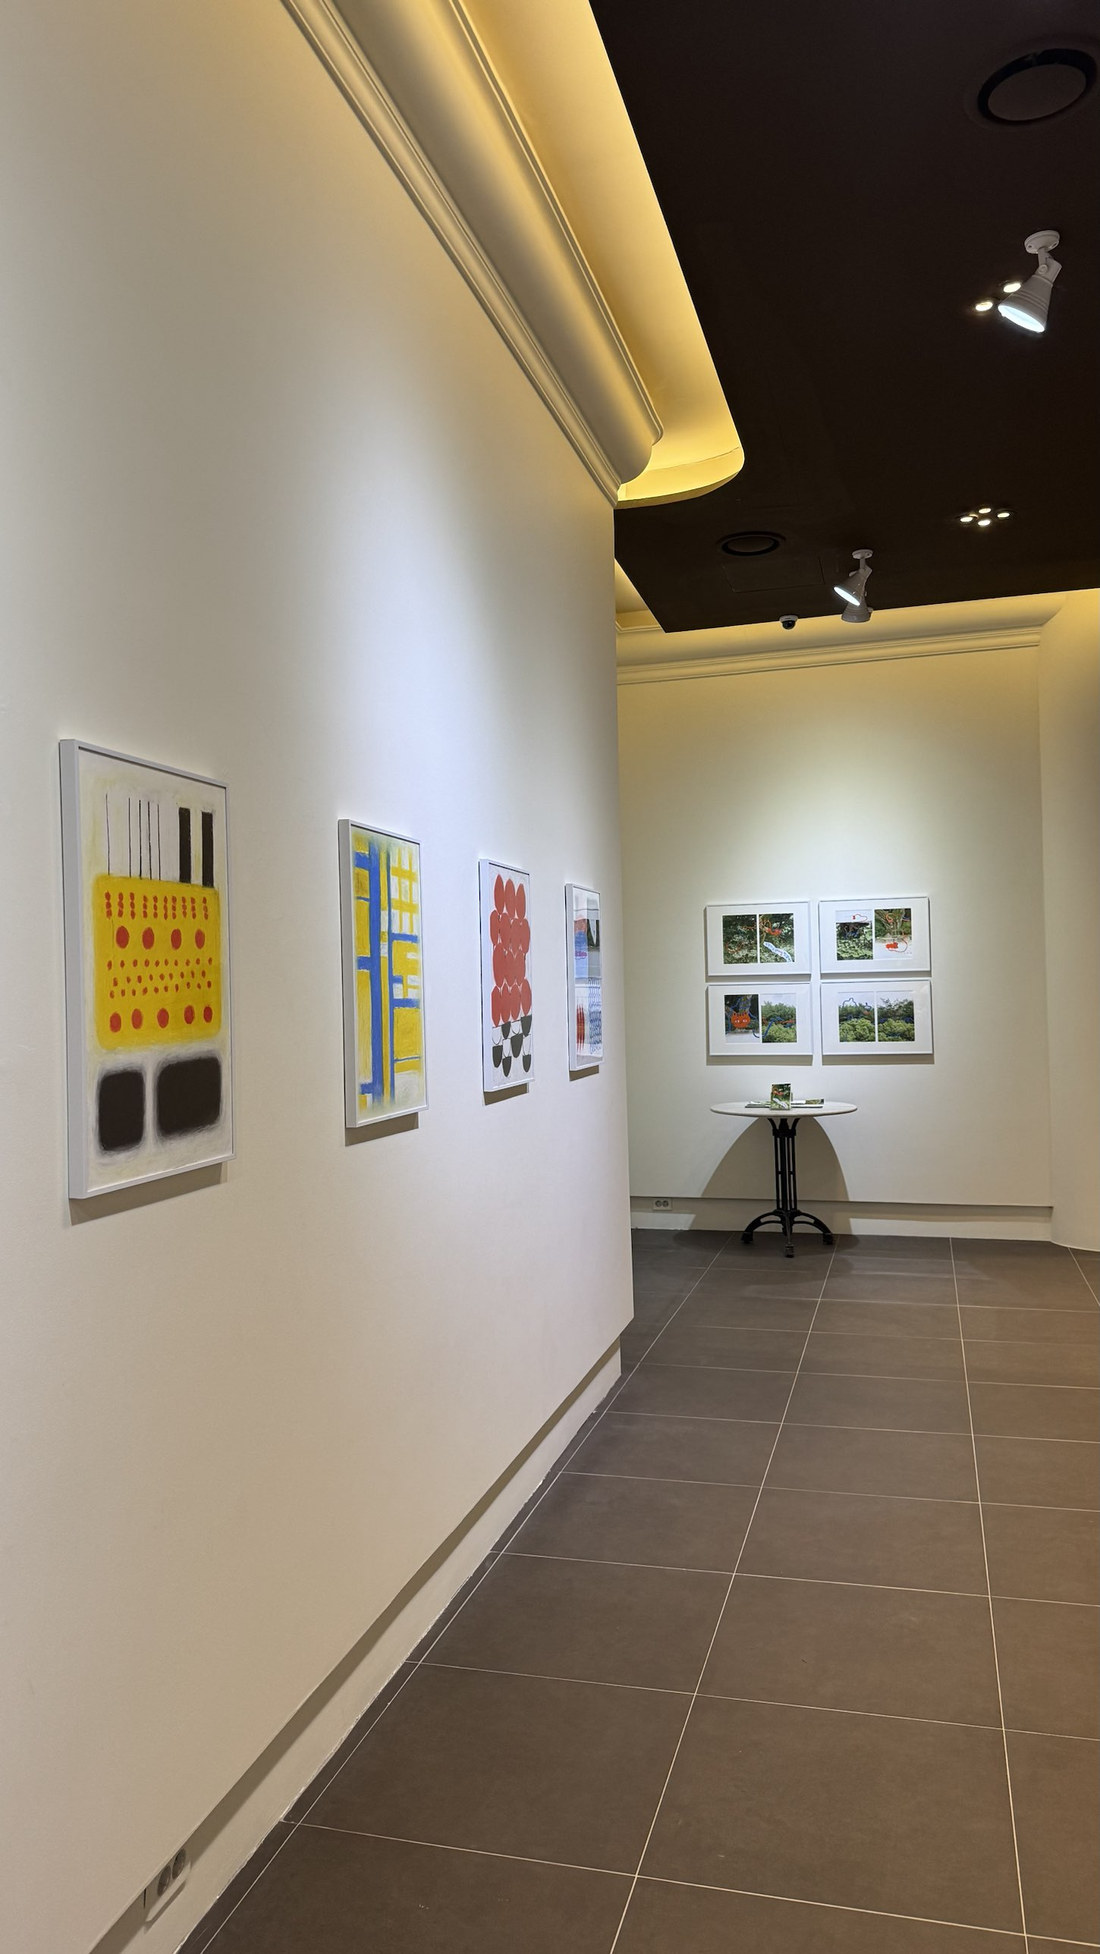
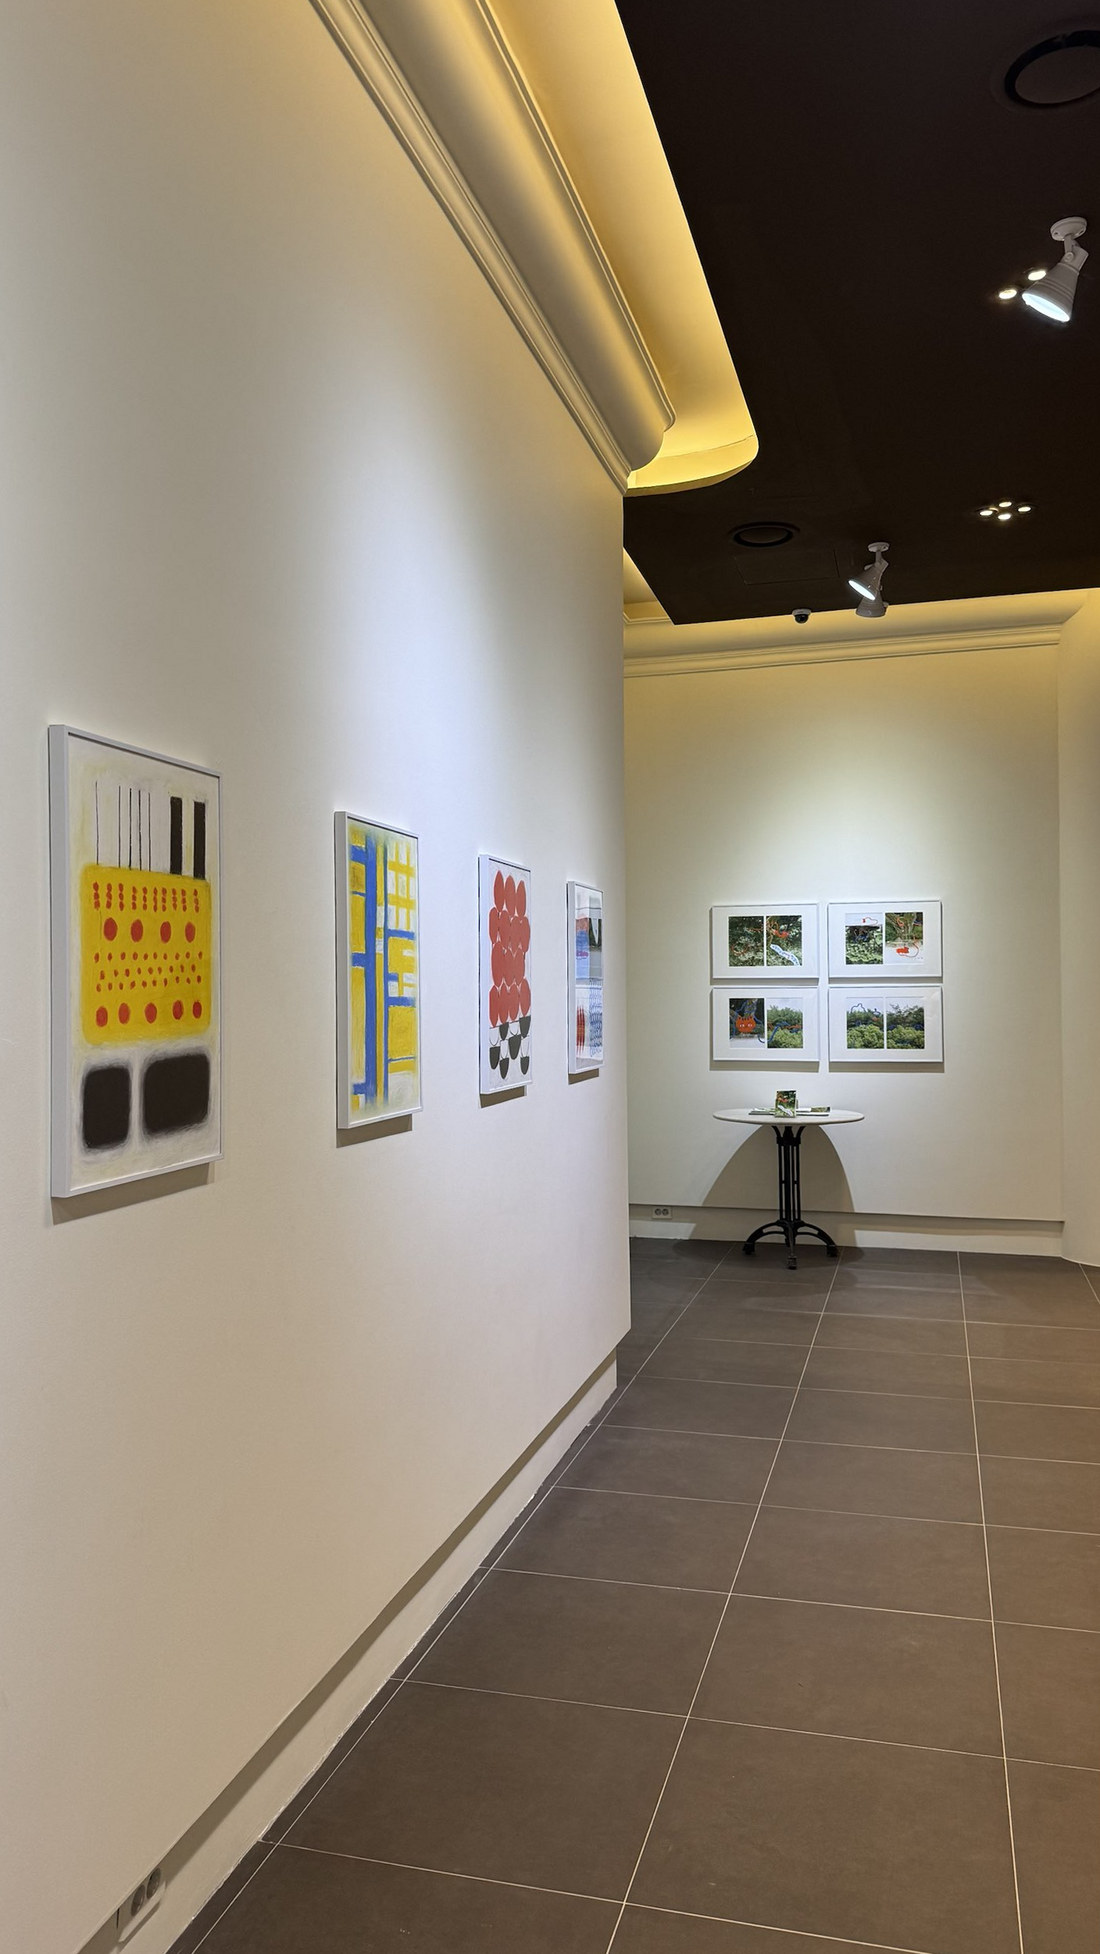
Straighten the corner installation view of Hesitant Perspective
Claude-Session: https://claude.ai/code/session_013yxc27JAUonTPbz2LwGFrp

diff --git a/index.html b/index.html
@@ -294,7 +294,7 @@ a.nw:hover b{text-decoration:underline 1px;text-underline-offset:4px}
     <div class="ptx"><div class="ptop"><p class="crumb"><a href="#work">← All work</a></p><p class="tgl" role="group" aria-label="Description language"><button type="button" data-set-lang="en" lang="en">EN</button><button type="button" data-set-lang="ko" lang="ko">KO</button></p></div><h1><span class="ko" lang="ko">엉거주춤 원근법</span><span class="en" lang="en">Hesitant Perspective</span></h1><p class="meta"><span class="ko" lang="ko">오일파스텔 연작 · HELLO DAY : ART JAM 2026, 2026.10</span><span class="en" lang="en">Oil pastel series · HELLO DAY: ART JAM 2026, 2026.10</span></p><p class="d ko" lang="ko">침범하지 않으면서 가까워지려면 얼마나 가까이 가도 될까. 이 질문에서 시작한 오일파스텔 연작이다. 풍경을 바라볼 때 다가가고 물러서기를 되풀이하는 엉거주춤한 태도가 사람 사이의 관계에도 있다는 데서 출발해, 1km 밖에서부터 10cm 앞까지 여덟 가지 거리에서 풍경을 바라본 시선을 여덟 장에 담았다. 그림에는 정해진 방향이 없다. 옆으로도 거꾸로도 돌려 보고, 가까이서도 멀리서도 바라보며 나와 그림 사이의 알맞은 거리를 찾아보길 바란다.</p><p class="d en" lang="en">How close can we come without intruding? This series of oil pastel paintings began with that question. Looking at a landscape, 202 often steps closer and then back again, and came to see the same hesitant stance in the way people relate to one another. The eight paintings hold the gaze on a landscape from eight distances, from a kilometer away to ten centimeters in front. They have no fixed orientation: turn them sideways or upside down, look from near and far, and find the distance that feels right between you and the painting.</p><dl class="facts"><dt><span class="ko" lang="ko">전시</span><span class="en" lang="en">Exhibition</span></dt><dd><span class="ko" lang="ko">«HELLO DAY : ART JAM 2026 – Let Me Introduce Myself»</span><span class="en" lang="en">HELLO DAY: ART JAM 2026 – Let Me Introduce Myself</span></dd><dt><span class="ko" lang="ko">주최</span><span class="en" lang="en">Organized by</span></dt><dd><span class="ko" lang="ko">재단법인 빛이나, 라움아트센터 협력</span><span class="en" lang="en">Bichina Foundation, with Raum Art Center</span></dd><dt><span class="ko" lang="ko">기간</span><span class="en" lang="en">Dates</span></dt><dd><span class="ko" lang="ko">2026.10.23 – 11.1</span><span class="en" lang="en">23 Oct – 1 Nov 2026</span></dd><dt><span class="ko" lang="ko">장소</span><span class="en" lang="en">Venue</span></dt><dd><span class="ko" lang="ko">라움아트센터 1층 갤러리, 서울</span><span class="en" lang="en">Raum Art Center, 1F Gallery, Seoul</span></dd><dt><span class="ko" lang="ko">작품</span><span class="en" lang="en">Works</span></dt><dd><span class="ko" lang="ko">종이에 오일파스텔 8점, 각 60×40cm</span><span class="en" lang="en">Eight works, oil pastel on paper, 60 × 40 cm each</span></dd></dl></div>
     <div class="pim">
       <figure><img src="img/persp-1.jpg?v=3cb623af" width="1100" height="1954" loading="lazy" alt="라움아트센터 1층 갤러리의 긴 흰 벽에 나란히 걸린 「엉거주춤 원근법」 여덟 점" data-alt-ko="라움아트센터 1층 갤러리의 긴 흰 벽에 나란히 걸린 「엉거주춤 원근법」 여덟 점" data-alt-en="The eight paintings of Hesitant Perspective hung in a row along a long white wall at Raum Art Center"></figure>
-      <div class="g2"><figure><img src="img/persp-2.jpg?v=36a47b8e" width="1100" height="1954" loading="lazy" alt="전시장 모퉁이 벽에 걸린 연작 네 점과 안쪽 벽의 액자들" data-alt-ko="전시장 모퉁이 벽에 걸린 연작 네 점과 안쪽 벽의 액자들" data-alt-en="Four paintings from the series on a corner wall, with framed works on the far wall"></figure><figure><img src="img/persp-3.jpg?v=daa91195" width="1100" height="1954" loading="lazy" alt="흰 액자에 넣어 건 연작의 첫 두 점" data-alt-ko="흰 액자에 넣어 건 연작의 첫 두 점" data-alt-en="The first two paintings of the series in white frames"></figure></div>
+      <div class="g2"><figure><img src="img/persp-2.jpg?v=39e56e27" width="1100" height="1954" loading="lazy" alt="전시장 모퉁이 벽에 걸린 연작 네 점과 안쪽 벽의 액자들" data-alt-ko="전시장 모퉁이 벽에 걸린 연작 네 점과 안쪽 벽의 액자들" data-alt-en="Four paintings from the series on a corner wall, with framed works on the far wall"></figure><figure><img src="img/persp-3.jpg?v=daa91195" width="1100" height="1954" loading="lazy" alt="흰 액자에 넣어 건 연작의 첫 두 점" data-alt-ko="흰 액자에 넣어 건 연작의 첫 두 점" data-alt-en="The first two paintings of the series in white frames"></figure></div>
       <p class="cap"><span class="ko" lang="ko">설치 모습, «HELLO DAY : ART JAM 2026», 라움아트센터 1층 갤러리</span><span class="en" lang="en">Installation views, HELLO DAY: ART JAM 2026, Raum Art Center 1F Gallery</span></p>
       <p class="sub"><span class="ko" lang="ko">연작</span><span class="en" lang="en">The series</span></p>
       <div class="g4"><button type="button" data-lb="home" data-i="0" aria-label="Painting, view larger"><img src="img/p7.jpg?v=e42bbf16" width="693" height="1016" loading="lazy" alt="파란 산 모양과 노란 형태, 청록·연두·노랑 세로 띠, 빨간 세로선이 있는 회화" data-alt-ko="파란 산 모양과 노란 형태, 청록·연두·노랑 세로 띠, 빨간 세로선이 있는 회화" data-alt-en="Painting of a blue mountain shape, yellow forms, teal, green and yellow bands and red lines"></button><button type="button" data-lb="home" data-i="1" aria-label="Painting, view larger"><img src="img/p3.jpg?v=b1f8a0c3" width="749" height="1104" loading="lazy" alt="빨강과 초록 세로줄이 흘러내리고 아래쪽 절반이 노란 면인 회화" data-alt-ko="빨강과 초록 세로줄이 흘러내리고 아래쪽 절반이 노란 면인 회화" data-alt-en="Painting of red and green stripes running down into a yellow lower half"></button><button type="button" data-lb="home" data-i="2" aria-label="Painting, view larger"><img src="img/p2.jpg?v=bd0289af" width="839" height="1213" loading="lazy" alt="흰 바탕 위쪽에 청록 점이 한 줄로 이어지고, 주황 원 테두리와 빨간 십자 선이 있는 회화" data-alt-ko="흰 바탕 위쪽에 청록 점이 한 줄로 이어지고, 주황 원 테두리와 빨간 십자 선이 있는 회화" data-alt-en="Painting of a row of teal dots above an orange circle outline and red crossing lines on white"></button><button type="button" data-lb="home" data-i="3" aria-label="Painting, view larger"><img src="img/p1.jpg?v=611f60e0" width="833" height="1228" loading="lazy" alt="노란 면 위의 빨간 점들과 검은 세로선, 아래쪽 검은 둥근 사각형 두 개가 있는 회화" data-alt-ko="노란 면 위의 빨간 점들과 검은 세로선, 아래쪽 검은 둥근 사각형 두 개가 있는 회화" data-alt-en="Painting of red dots and black vertical lines on yellow, with two black rounded rectangles below"></button><button type="button" data-lb="home" data-i="4" aria-label="Painting, view larger"><img src="img/p4.jpg?v=19be5ed8" width="842" height="1258" loading="lazy" alt="굵은 파란 세로 띠와 가로 띠가 노란 면과 격자 사이를 가로지르는 회화" data-alt-ko="굵은 파란 세로 띠와 가로 띠가 노란 면과 격자 사이를 가로지르는 회화" data-alt-en="Painting of thick blue bands crossing yellow fields and a grid"></button><button type="button" data-lb="home" data-i="5" aria-label="Painting, view larger"><img src="img/p6.jpg?v=7e854baf" width="922" height="1290" loading="lazy" alt="검은 줄기로 이어진 빨간 원들과 아래쪽 검고 흰 반원 그릇 모양이 있는 회화" data-alt-ko="검은 줄기로 이어진 빨간 원들과 아래쪽 검고 흰 반원 그릇 모양이 있는 회화" data-alt-en="Painting of red circles on black stems above black and white half-circle bowls"></button><button type="button" data-lb="home" data-i="6" aria-label="Painting, view larger"><img src="img/p5.jpg?v=19a9abbd" width="834" height="1229" loading="lazy" alt="분홍과 파랑 면, 검은 면, 파란 동그라미 격자, 빨간 반달 세 개가 있는 회화" data-alt-ko="분홍과 파랑 면, 검은 면, 파란 동그라미 격자, 빨간 반달 세 개가 있는 회화" data-alt-en="Painting of pink, blue and black fields, a grid of blue circles and three red half-moons"></button></div>
